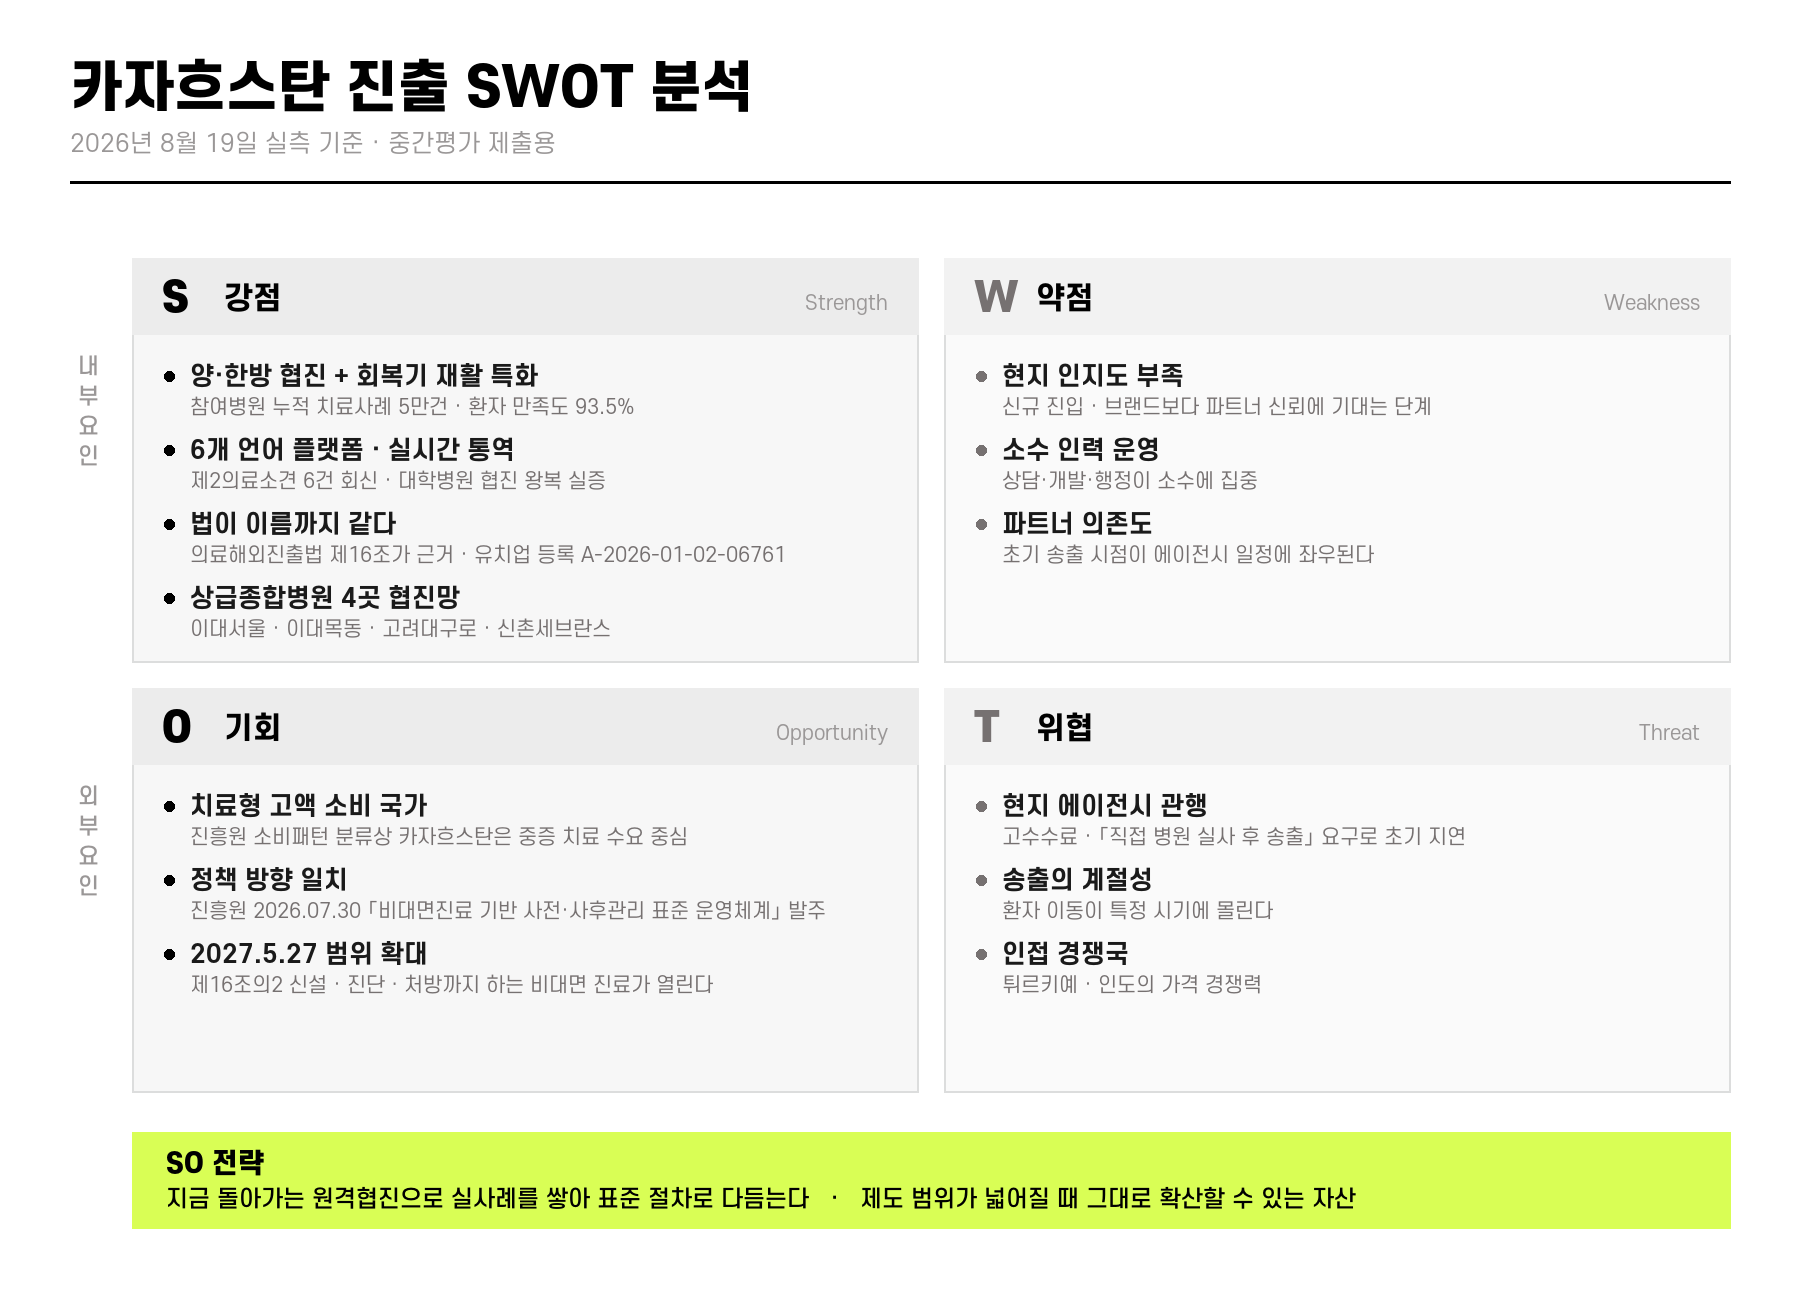
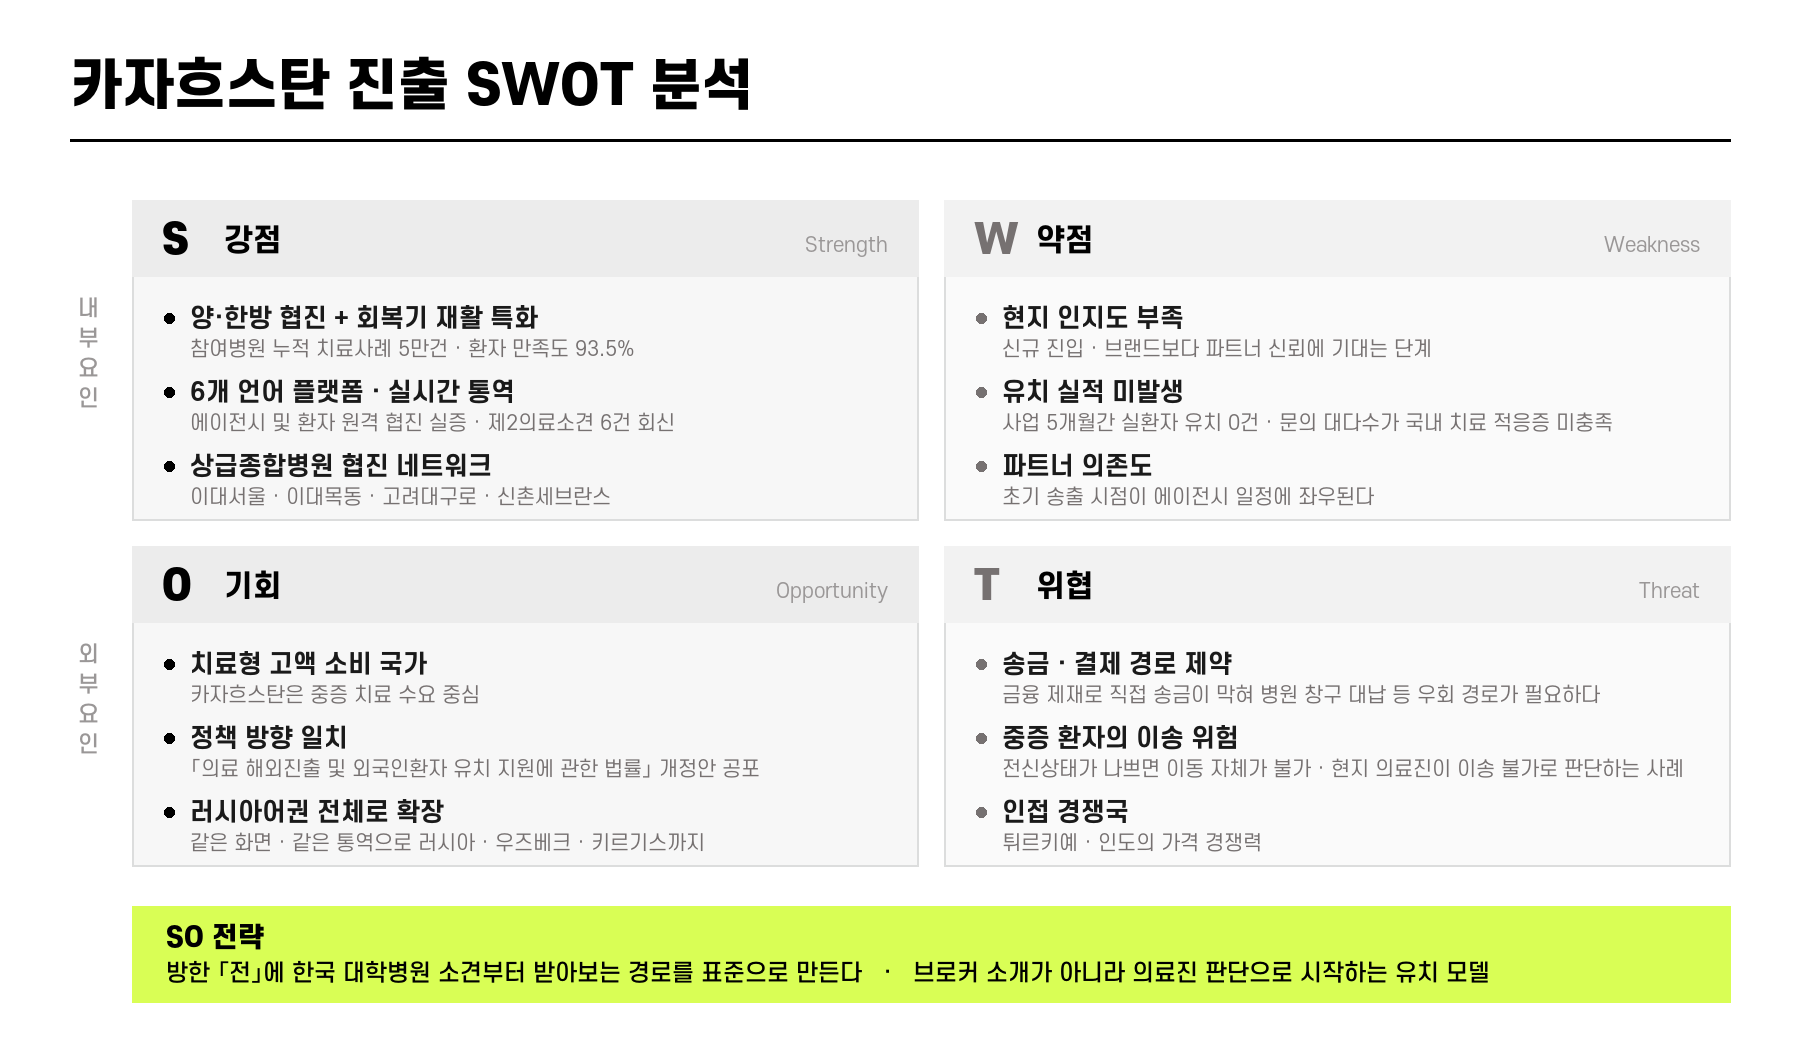
chore: 작업 자동 저장 (2026-08-20 11:28)

diff --git a/app/insurance/page.jsx b/app/insurance/page.jsx
@@ -1,4 +1,3 @@
-import { Suspense } from "react";
 import InsuranceClient from "./InsuranceClient";
 import { localizedMeta } from "@/lib/i18n/metadata";
 import { insuranceGuideLd } from "@/lib/seo/structuredData";
@@ -26,6 +25,9 @@ const baseMeta = {
   },
 };
 
+// fallback 없는 Suspense 로 감싸지 않는다. 그렇게 하면 서버가 「머리말 + 빈 본문 + 꼬리말」을
+// 먼저 보내고 본문을 나중에 끼워 넣어, 꼬리말이 화면에 그려졌다가 밀려난다(홈은 화면 밀림 0.97).
+// 자세한 경위는 app/page.jsx 주석. 2026-08-20 실측.
 export default function InsurancePage() {
   const jsonLd = insuranceGuideLd({ description: baseMeta.description });
   return (
@@ -35,9 +37,7 @@ export default function InsurancePage() {
         type="application/ld+json"
         dangerouslySetInnerHTML={{ __html: JSON.stringify(jsonLd) }}
       />
-      <Suspense>
-        <InsuranceClient />
-      </Suspense>
+      <InsuranceClient />
     </>
   );
 }

diff --git a/app/care-journey/page.jsx b/app/care-journey/page.jsx
@@ -1,4 +1,3 @@
-import { Suspense } from "react";
 import CareJourneyClient from "./CareJourneyClient";
 import { localizedMeta } from "@/lib/i18n/metadata";
 import { careJourneyLd } from "@/lib/seo/structuredData";
@@ -26,6 +25,9 @@ const baseMeta = {
   },
 };
 
+// fallback 없는 Suspense 로 감싸지 않는다. 그렇게 하면 서버가 「머리말 + 빈 본문 + 꼬리말」을
+// 먼저 보내고 본문을 나중에 끼워 넣어, 꼬리말이 화면에 그려졌다가 밀려난다(홈은 화면 밀림 0.97).
+// 자세한 경위는 app/page.jsx 주석. 2026-08-20 실측.
 export default function CareJourneyPage() {
   const jsonLd = careJourneyLd();
   return (
@@ -35,9 +37,7 @@ export default function CareJourneyPage() {
         type="application/ld+json"
         dangerouslySetInnerHTML={{ __html: JSON.stringify(jsonLd) }}
       />
-      <Suspense>
-        <CareJourneyClient />
-      </Suspense>
+      <CareJourneyClient />
     </>
   );
 }

diff --git a/app/partners/page.jsx b/app/partners/page.jsx
@@ -1,4 +1,3 @@
-import { Suspense } from "react";
 import PartnersClient from "./PartnersClient";
 import { getRequestLocale } from "@/lib/i18n/metadata";
 import { COPY } from "./copy";
@@ -14,10 +13,11 @@ export async function generateMetadata() {
   };
 }
 
+// fallback 없는 Suspense 로 감싸지 않는다. 그렇게 하면 서버가 「머리말 + 빈 본문 + 꼬리말」을
+// 먼저 보내고 본문을 나중에 끼워 넣어, 꼬리말이 화면에 그려졌다가 밀려난다(홈은 화면 밀림 0.97).
+// 자세한 경위는 app/page.jsx 주석. 2026-08-20 실측.
 export default function PartnersPage() {
   return (
-    <Suspense>
-      <PartnersClient />
-    </Suspense>
+    <PartnersClient />
   );
 }

diff --git a/app/telemedicine/page.jsx b/app/telemedicine/page.jsx
@@ -1,4 +1,3 @@
-import { Suspense } from "react";
 import TelemedicineClient from "./TelemedicineClient";
 import { localizedMeta } from "@/lib/i18n/metadata";
 
@@ -27,10 +26,11 @@ const baseMeta = {
   },
 };
 
+// fallback 없는 Suspense 로 감싸지 않는다. 그렇게 하면 서버가 「머리말 + 빈 본문 + 꼬리말」을
+// 먼저 보내고 본문을 나중에 끼워 넣어, 꼬리말이 화면에 그려졌다가 밀려난다(홈은 화면 밀림 0.97).
+// 자세한 경위는 app/page.jsx 주석. 2026-08-20 실측.
 export default function TelemedicinePage() {
   return (
-    <Suspense>
-      <TelemedicineClient />
-    </Suspense>
+    <TelemedicineClient />
   );
 }

diff --git a/scripts/ppt/make_swot_image.py b/scripts/ppt/make_swot_image.py
@@ -10,7 +10,7 @@ import sys, os
 from PIL import Image, ImageDraw, ImageFont
 
 OUT = sys.argv[1] if len(sys.argv) > 1 else 'swot.png'
-W, H = 1800, 1300
+W, H = 1800, 1040
 
 BLACK = (0, 0, 0)
 INK = (26, 26, 26)
@@ -32,15 +32,14 @@ img = Image.new('RGB', (W, H), 'white')
 d = ImageDraw.Draw(img)
 
 # ─────────────────────────── 머리말
-d.text((70, 58), '카자흐스탄 진출 SWOT 분석', font=f(8, 54), fill=BLACK)
-d.text((70, 130), '2026년 8월 19일 실측 기준 · 중간평가 제출용', font=f(4, 24), fill=MUTED)
-d.line([70, 182, W - 70, 182], fill=BLACK, width=3)
+d.text((70, 56), '카자흐스탄 진출 SWOT 분석', font=f(8, 54), fill=BLACK)
+d.line([70, 140, W - 70, 140], fill=BLACK, width=3)
 
 # ─────────────────────────── 사분면 좌표
 GAP = 26
-X0, Y0 = 132, 258
+X0, Y0 = 132, 200
 CW = (W - 132 - 70 - GAP) // 2
-CH = 404
+CH = 320
 
 
 def quad(x, y, tag, kor, eng, items, strong=False):
@@ -64,26 +63,25 @@ def quad(x, y, tag, kor, eng, items, strong=False):
 
 quad(X0, Y0, 'S', '강점', 'Strength', [
     ('양·한방 협진 + 회복기 재활 특화', '참여병원 누적 치료사례 5만건 · 환자 만족도 93.5%'),
-    ('6개 언어 플랫폼 · 실시간 통역', '제2의료소견 6건 회신 · 대학병원 협진 왕복 실증'),
-    ('법이 이름까지 같다', '의료해외진출법 제16조가 근거 · 유치업 등록 A-2026-01-02-06761'),
-    ('상급종합병원 4곳 협진망', '이대서울 · 이대목동 · 고려대구로 · 신촌세브란스'),
+    ('6개 언어 플랫폼 · 실시간 통역', '에이전시 및 환자 원격 협진 실증 · 제2의료소견 6건 회신'),
+    ('상급종합병원 협진 네트워크', '이대서울 · 이대목동 · 고려대구로 · 신촌세브란스'),
 ], strong=True)
 
 quad(X0 + CW + GAP, Y0, 'W', '약점', 'Weakness', [
     ('현지 인지도 부족', '신규 진입 · 브랜드보다 파트너 신뢰에 기대는 단계'),
-    ('소수 인력 운영', '상담·개발·행정이 소수에 집중'),
+    ('유치 실적 미발생', '사업 5개월간 실환자 유치 0건 · 문의 대다수가 국내 치료 적응증 미충족'),
     ('파트너 의존도', '초기 송출 시점이 에이전시 일정에 좌우된다'),
 ])
 
 quad(X0, Y0 + CH + GAP, 'O', '기회', 'Opportunity', [
-    ('치료형 고액 소비 국가', '진흥원 소비패턴 분류상 카자흐스탄은 중증 치료 수요 중심'),
-    ('정책 방향 일치', '진흥원 2026.07.30 「비대면진료 기반 사전·사후관리 표준 운영체계」 발주'),
-    ('2027.5.27 범위 확대', '제16조의2 신설 · 진단ㆍ처방까지 하는 비대면 진료가 열린다'),
+    ('치료형 고액 소비 국가', '카자흐스탄은 중증 치료 수요 중심'),
+    ('정책 방향 일치', '「의료 해외진출 및 외국인환자 유치 지원에 관한 법률」 개정안 공포'),
+    ('러시아어권 전체로 확장', '같은 화면 · 같은 통역으로 러시아 · 우즈베크 · 키르기스까지'),
 ], strong=True)
 
 quad(X0 + CW + GAP, Y0 + CH + GAP, 'T', '위협', 'Threat', [
-    ('현지 에이전시 관행', '고수수료 · 「직접 병원 실사 후 송출」 요구로 초기 지연'),
-    ('송출의 계절성', '환자 이동이 특정 시기에 몰린다'),
+    ('송금 · 결제 경로 제약', '금융 제재로 직접 송금이 막혀 병원 창구 대납 등 우회 경로가 필요하다'),
+    ('중증 환자의 이송 위험', '전신상태가 나쁘면 이동 자체가 불가 · 현지 의료진이 이송 불가로 판단하는 사례'),
     ('인접 경쟁국', '튀르키예 · 인도의 가격 경쟁력'),
 ])
 
@@ -103,7 +101,7 @@ d.rectangle([X0, BY, W - 70, BY + 96], fill=LIME)
 d.text((X0 + 34, BY + 16), 'SO 전략',
        font=f(8, 27), fill=BLACK)
 d.text((X0 + 34, BY + 54),
-       '지금 돌아가는 원격협진으로 실사례를 쌓아 표준 절차로 다듬는다   ·   제도 범위가 넓어질 때 그대로 확산할 수 있는 자산',
+       '방한 「전」에 한국 대학병원 소견부터 받아보는 경로를 표준으로 만든다   ·   브로커 소개가 아니라 의료진 판단으로 시작하는 유치 모델',
        font=f(5, 23), fill=BLACK)
 
 img.save(OUT)

diff --git a/docs/government-project/update_reports.py b/docs/government-project/update_reports.py
@@ -408,7 +408,7 @@ CWV_ROWS = [
 CWV_NOTE = ("Lighthouse 12.8.2 실측(2026. 8. 20., https://healwith.co.kr/ko). "
             "모바일은 저속 4G·CPU 4배 감속 조건이다. 측정 PC 에 설치된 광고차단 프로그램이 "
             "페이지마다 2.1MB 를 끼워 넣어 값을 왜곡시키므로 해당 주입을 차단하고 측정하였다. "
-            "종합 성능 점수는 모바일 37점, 데스크톱 91점이다.")
+            "종합 점수는 측정 환경에 따라 편차가 크므로 기재하지 않고, 지표값만 기재한다.")
 
 
 def fill_cwv(doc):
@@ -494,8 +494,10 @@ def main():
             txt = para_.text.strip()
             if not para_.runs:
                 continue
-            if txt.startswith("[화면: Lighthouse 리포트 스크린샷") or                txt.startswith("Core Web Vitals는 시범 운영 시작 후"):
-                para_.runs[0].text = CWV_NOTE if txt.startswith("Core Web Vitals는") else ""
+            if txt.startswith("[화면: Lighthouse 리포트 스크린샷"):
+                para_.runs[0].text = ""
+            elif txt.startswith(("Core Web Vitals는 시범 운영 시작 후", "Lighthouse 12.8.2 실측")):
+                para_.runs[0].text = CWV_NOTE
                 for r_ in para_.runs[1:]:
                     r_.text = ""
         if fill_cwv(doc):
@@ -529,7 +531,7 @@ def main():
         doc = Document(path)
         hit = set_cells(doc, "성능 측정 (Lighthouse)",
                         {2: "5항목 중 4항목 측정",
-                         3: "2026-08-20 실측. 데스크톱 91점 전 항목 충족, 모바일 LCP·CLS 미달"})
+                         3: "2026-08-20 실측. 데스크톱 전 항목 충족, 모바일 LCP·CLS 미달"})
         hit += set_cells(doc, "npm 의존성 보안",
                          {2: "1회", 3: "Critical 0건 · High 1건 · Moderate 2건 (2026-08-19)"})
         if hit:
